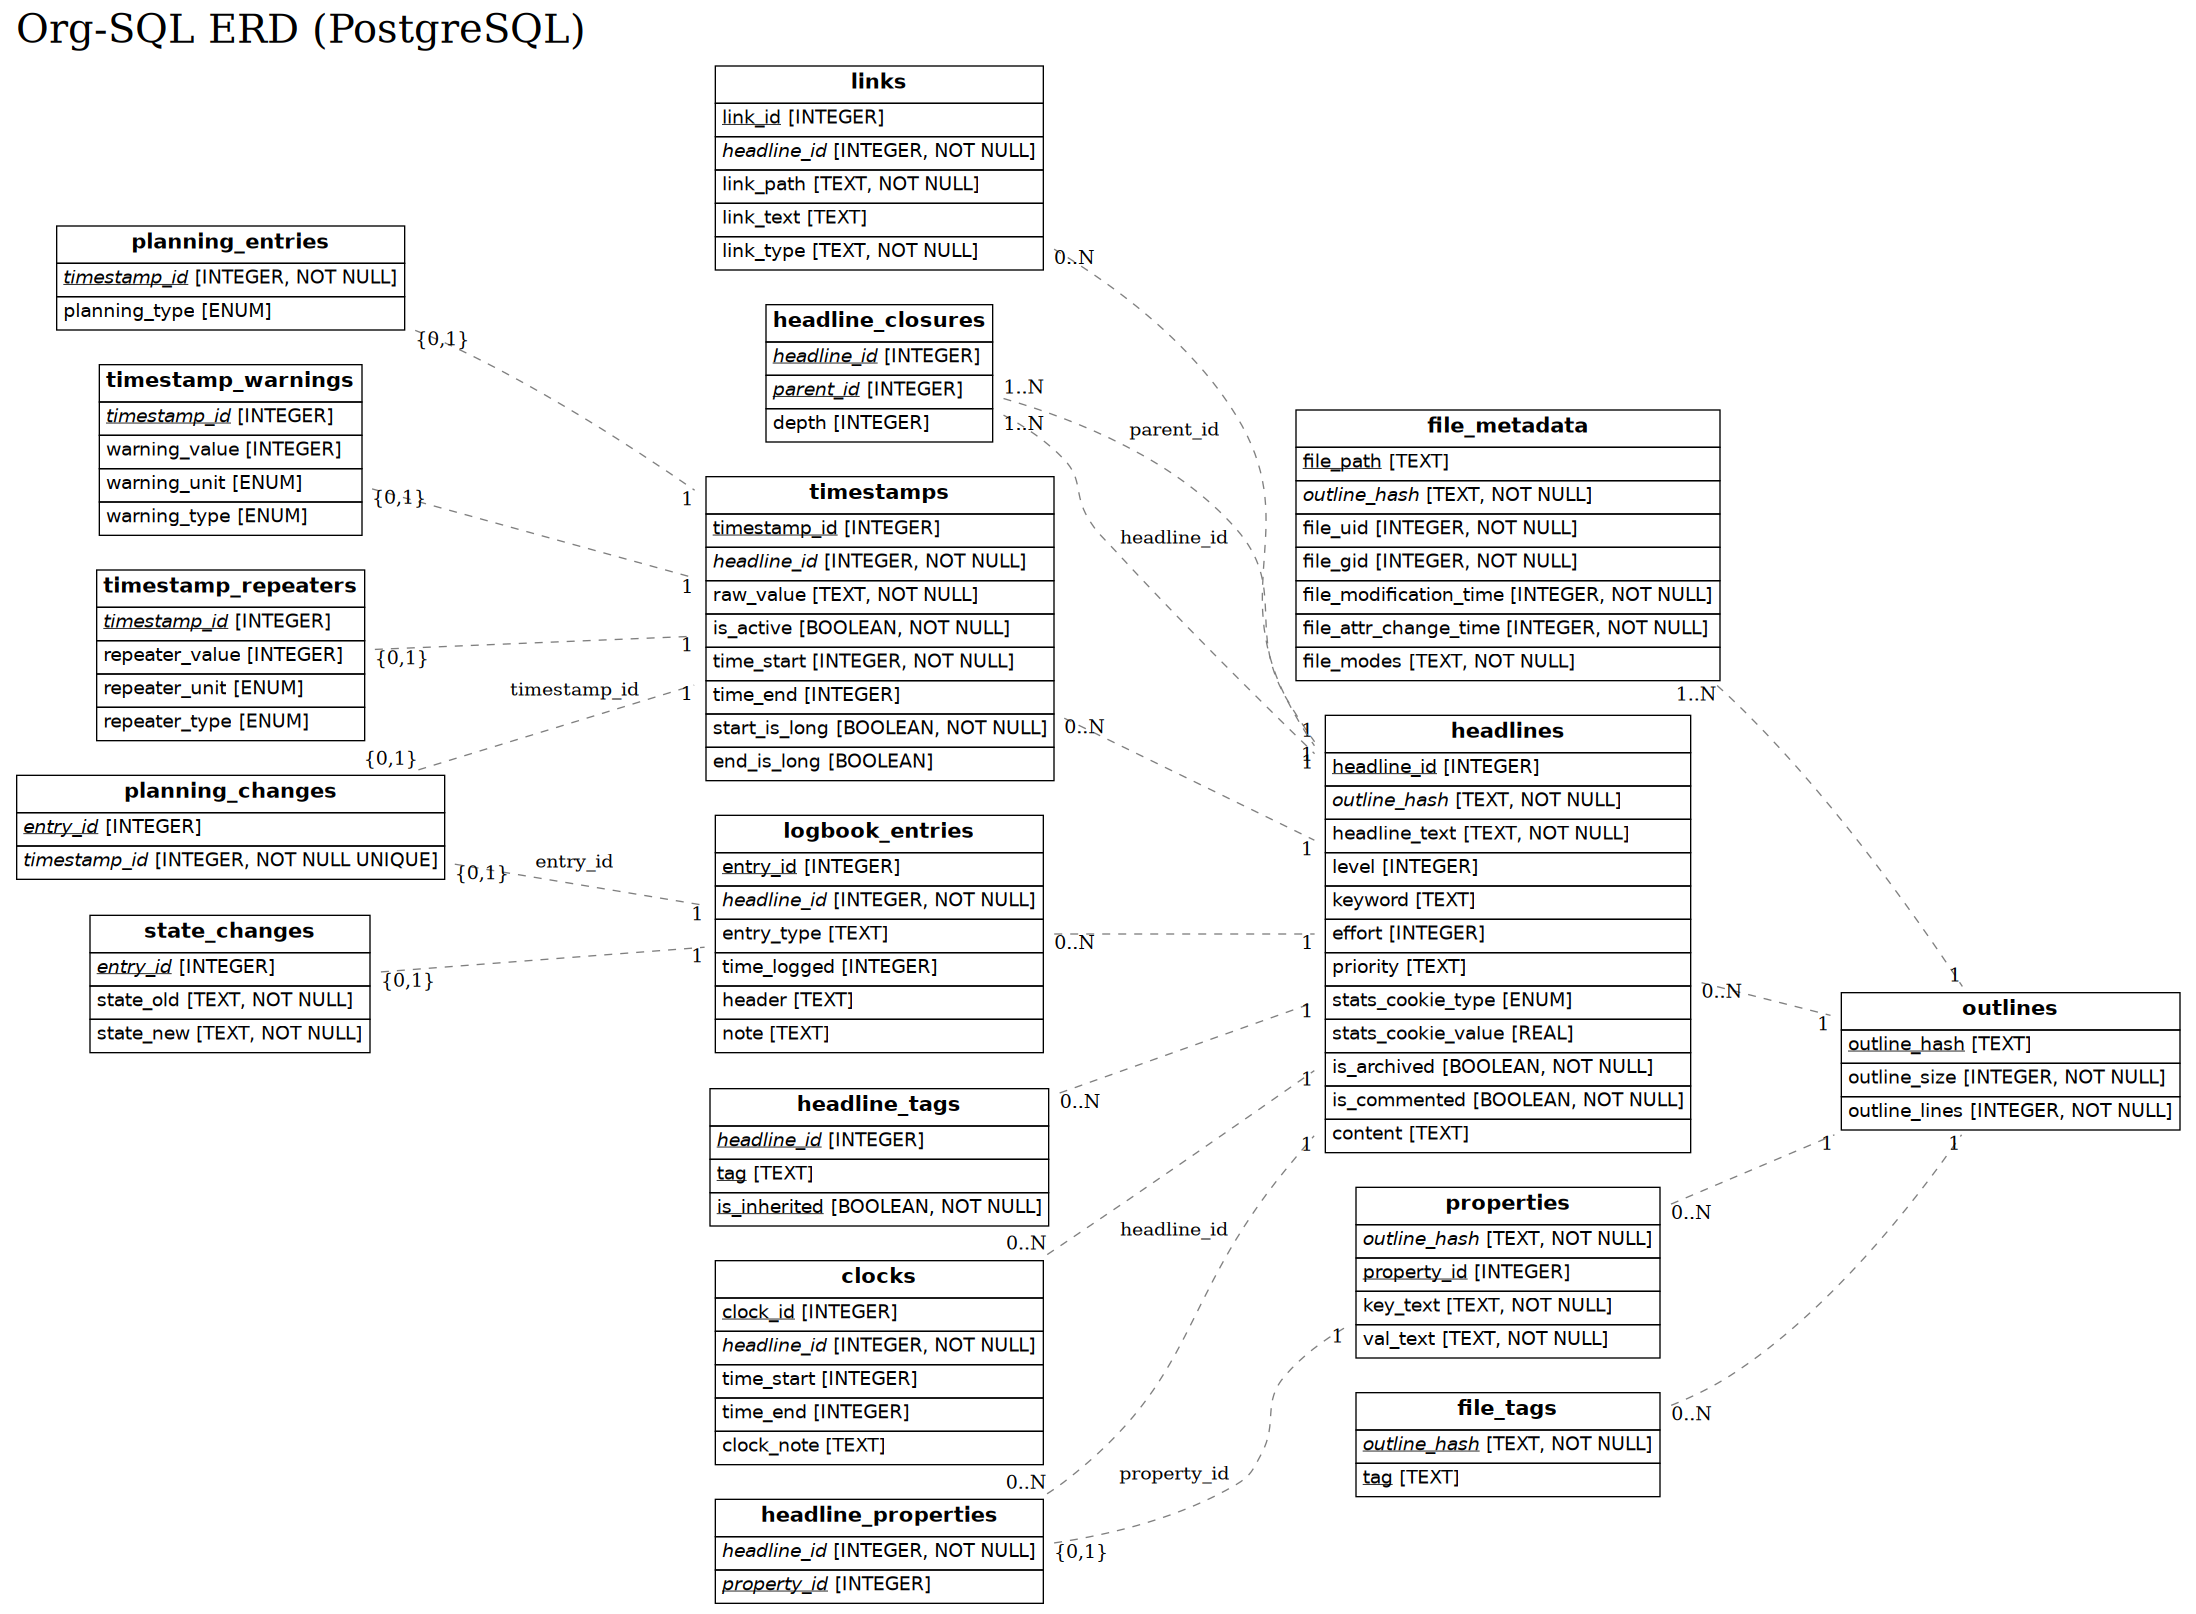
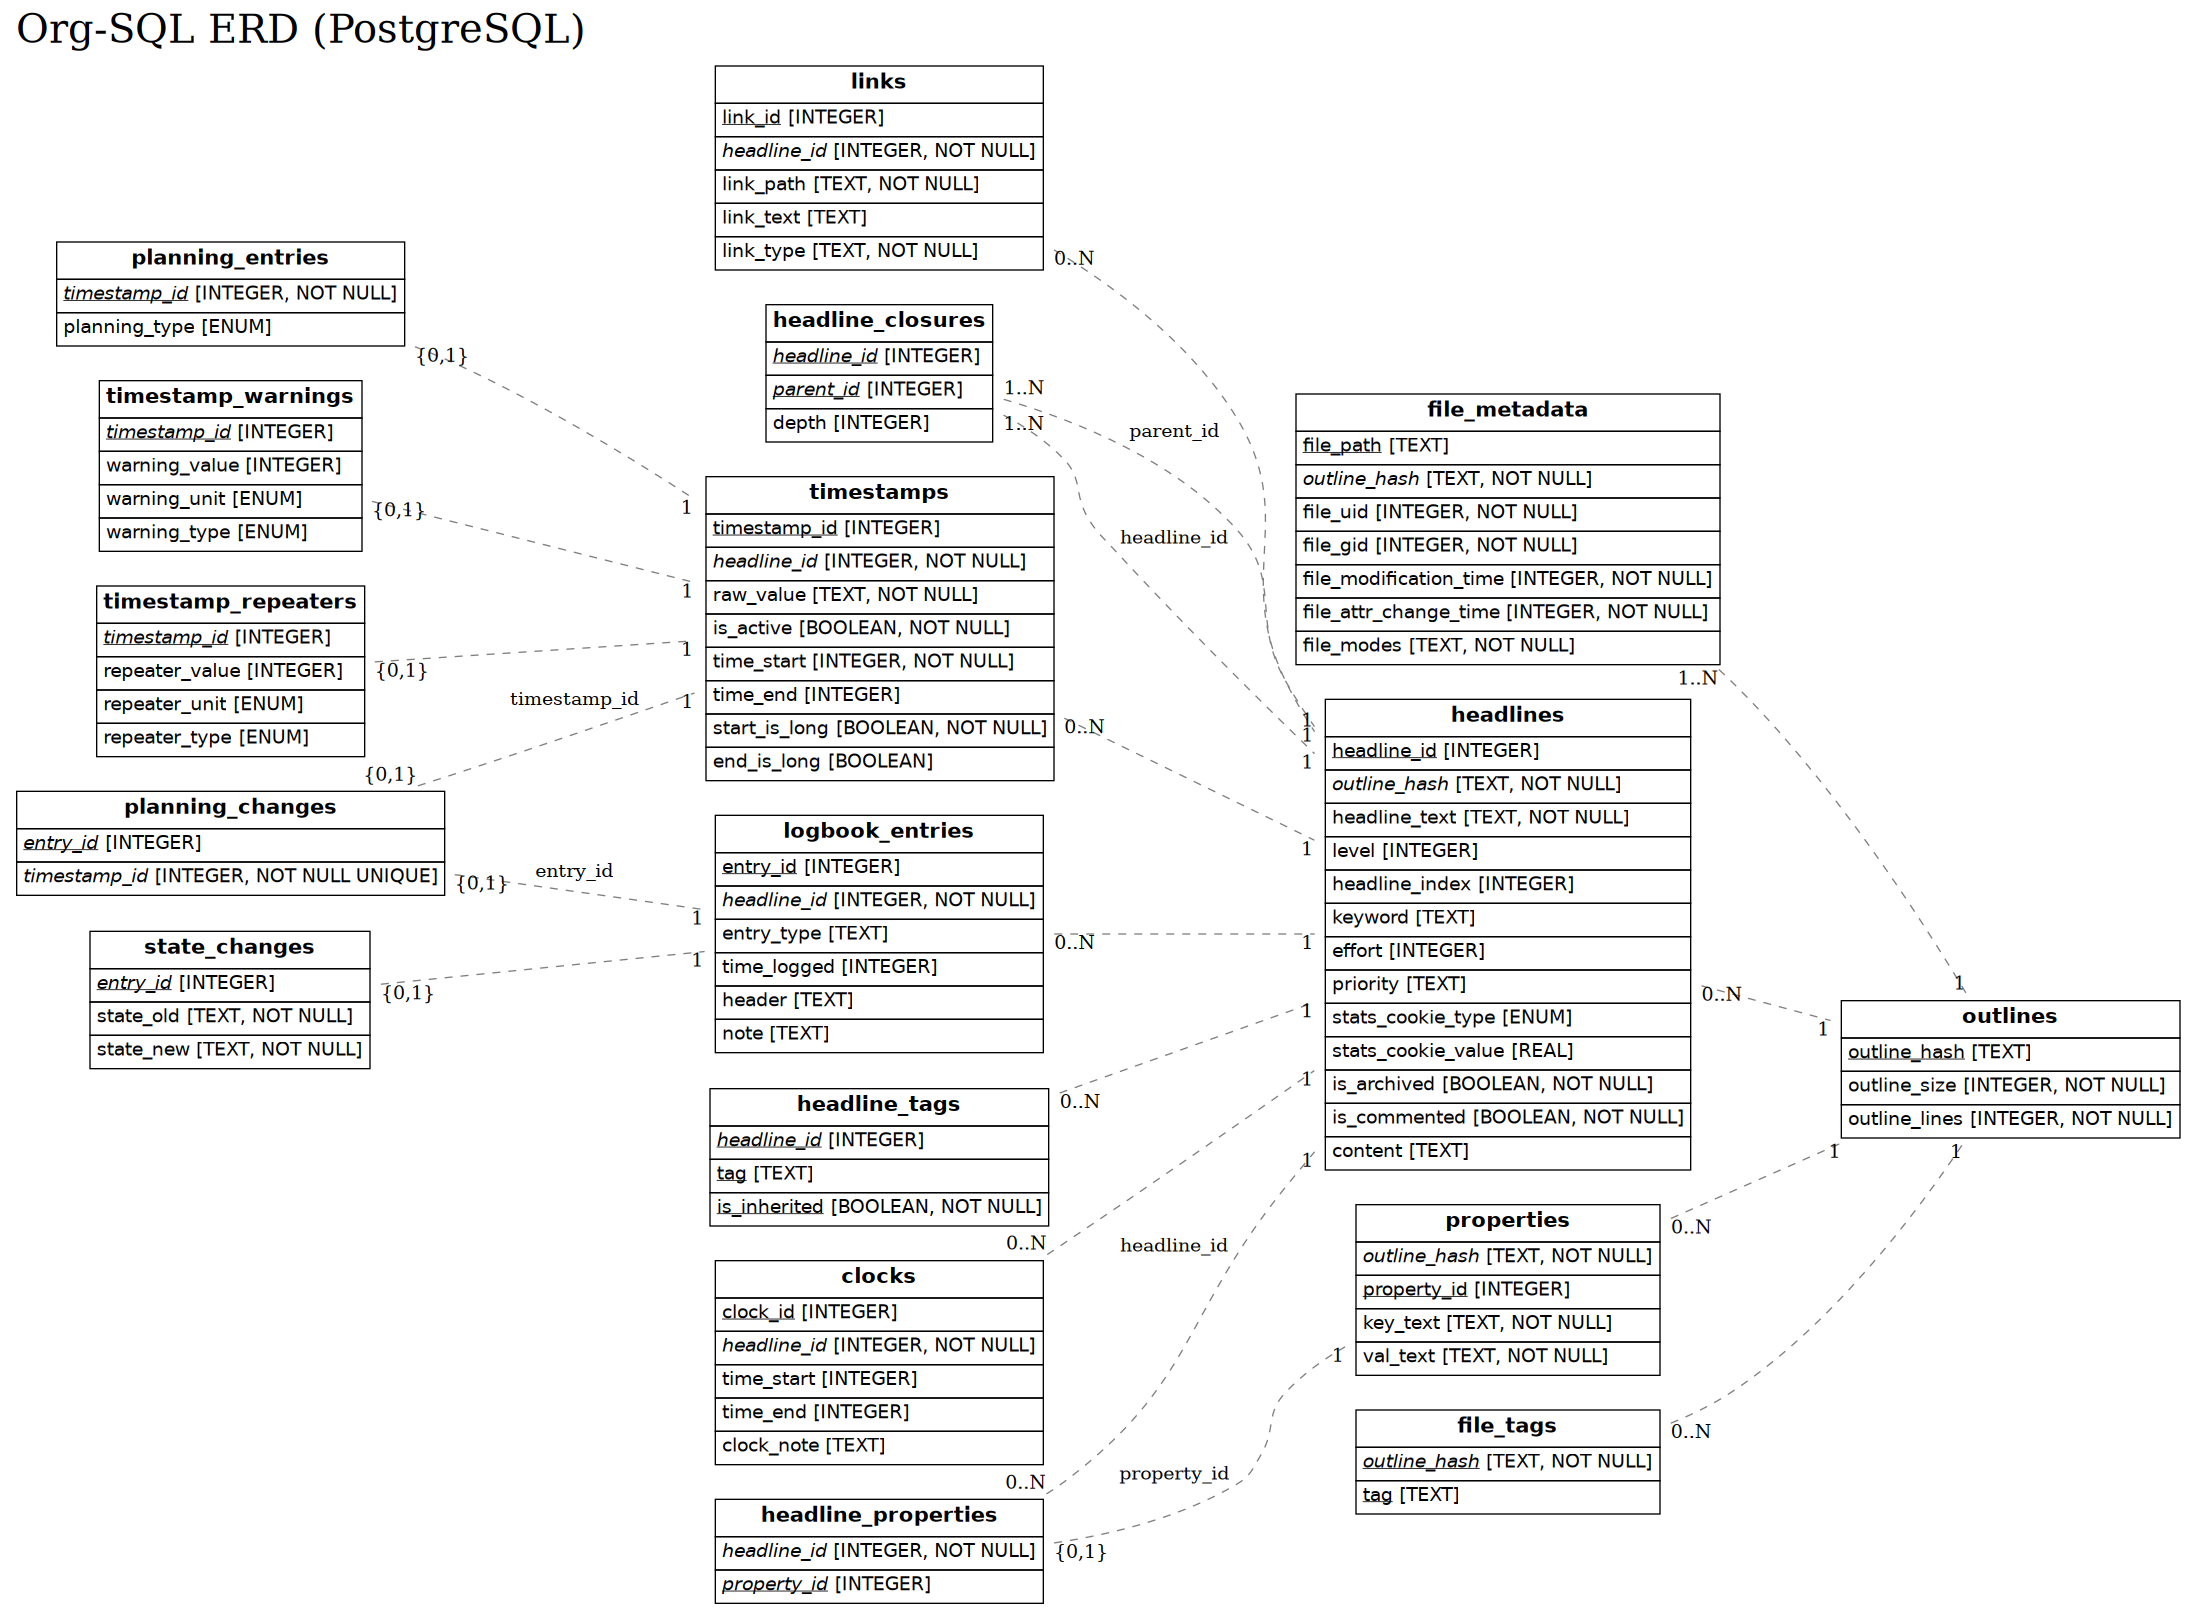
ADD headline_index to headlines table

diff --git a/doc/table-descriptions.md b/doc/table-descriptions.md
@@ -34,6 +34,7 @@ Each row stores one headline in a given org outline.
 | outline_hash | hash (MD5) of the org outline with this headline |
 | headline_text | raw text of the headline without leading stars or tags |
 | level | the level of this headline |
+| headline_index | the order of this headline relative to its neighbors |
 | keyword | the TODO state keyword |
 | effort | the value of the `Effort` property in minutes |
 | priority | character value of the priority |
